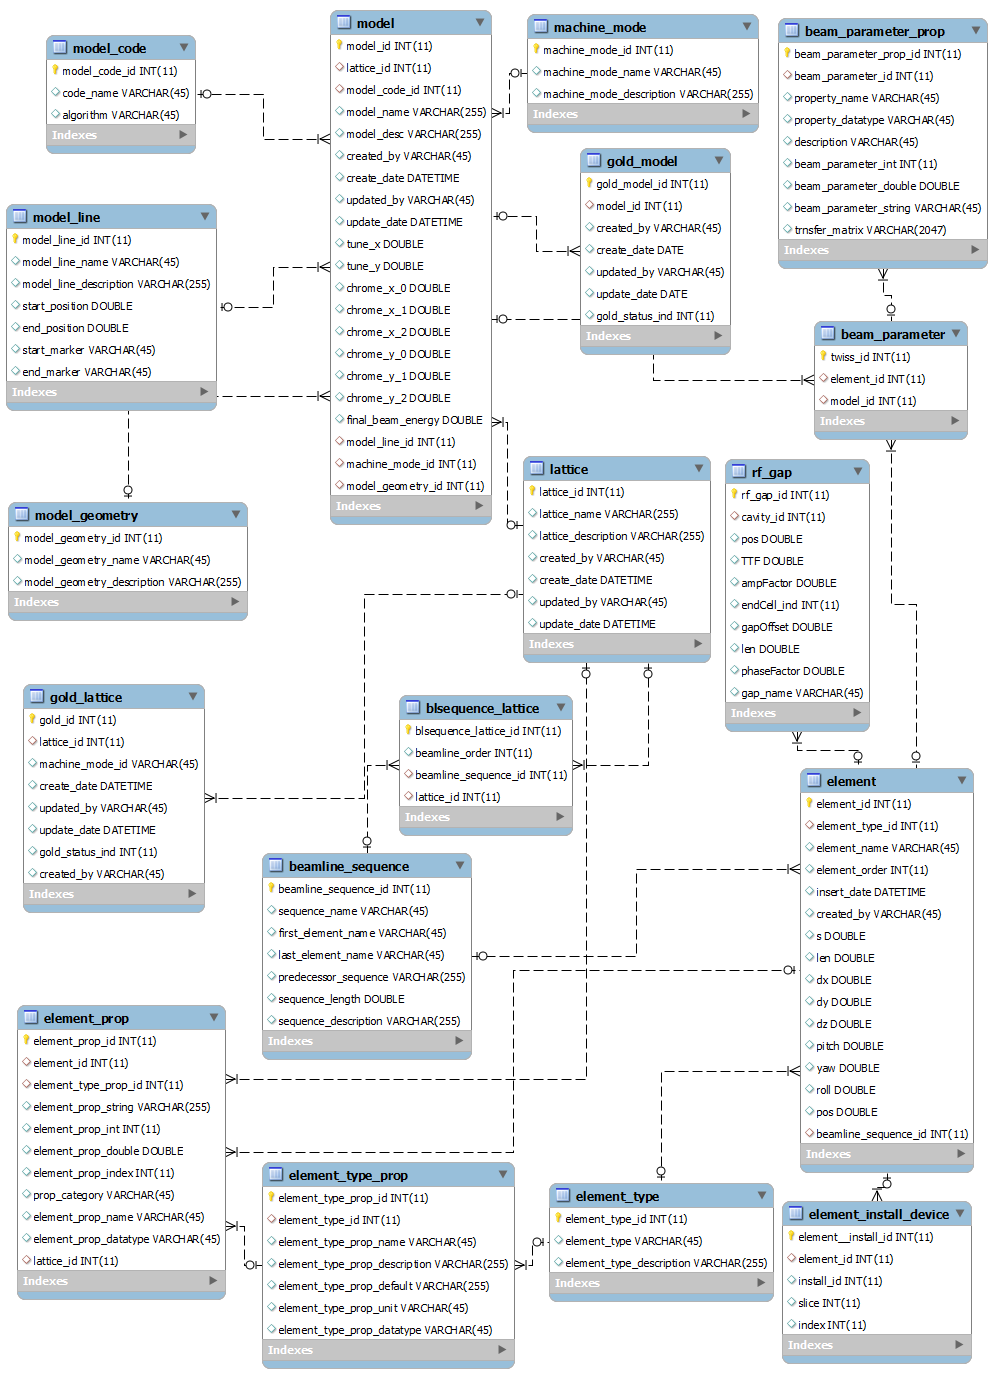
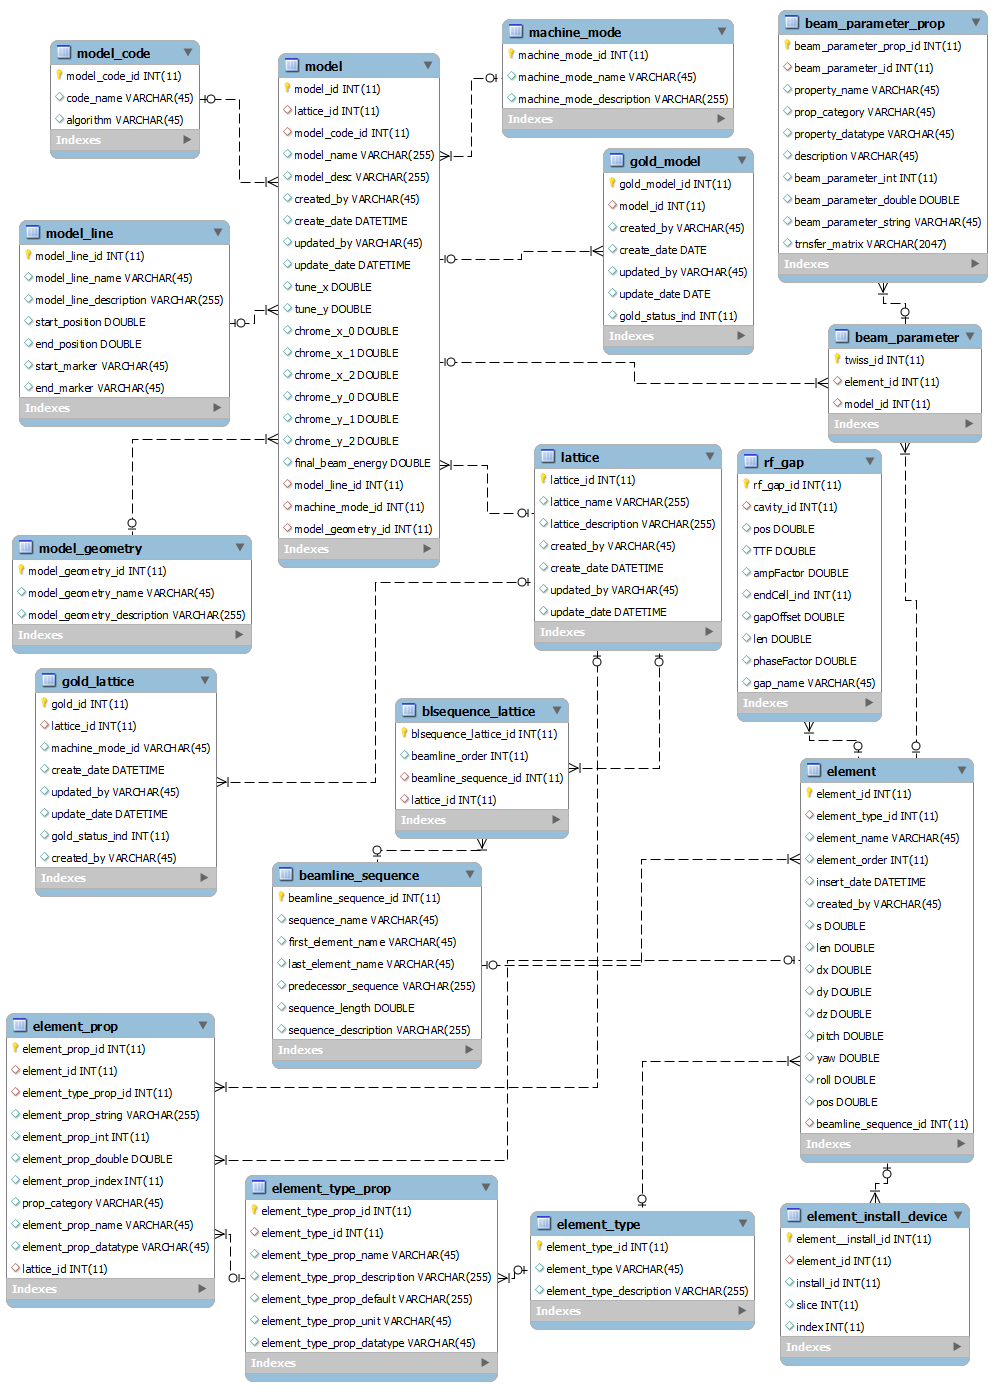
minor update for v.0.7.5 schema

diff --git a/modelDB/src/org/openepics/model/entity/BeamParameterProp.java b/modelDB/src/org/openepics/model/entity/BeamParameterProp.java
@@ -11,8 +11,6 @@ import javax.persistence.Entity;
 import javax.persistence.GeneratedValue;
 import javax.persistence.GenerationType;
 import javax.persistence.Id;
-import javax.persistence.JoinColumn;
-import javax.persistence.ManyToOne;
 import javax.persistence.NamedQueries;
 import javax.persistence.NamedQuery;
 import javax.persistence.Table;
@@ -21,7 +19,7 @@ import javax.xml.bind.annotation.XmlRootElement;
 
 /**
  *
- * @author paul
+ * @author chu
  */
 @Entity
 @Table(name = "beam_parameter_prop")
@@ -30,6 +28,7 @@ import javax.xml.bind.annotation.XmlRootElement;
     @NamedQuery(name = "BeamParameterProp.findAll", query = "SELECT b FROM BeamParameterProp b"),
     @NamedQuery(name = "BeamParameterProp.findByBeamParameterPropId", query = "SELECT b FROM BeamParameterProp b WHERE b.beamParameterPropId = :beamParameterPropId"),
     @NamedQuery(name = "BeamParameterProp.findByPropertyName", query = "SELECT b FROM BeamParameterProp b WHERE b.propertyName = :propertyName"),
+    @NamedQuery(name = "BeamParameterProp.findByPropCategory", query = "SELECT b FROM BeamParameterProp b WHERE b.propCategory = :propCategory"),
     @NamedQuery(name = "BeamParameterProp.findByPropertyDatatype", query = "SELECT b FROM BeamParameterProp b WHERE b.propertyDatatype = :propertyDatatype"),
     @NamedQuery(name = "BeamParameterProp.findByDescription", query = "SELECT b FROM BeamParameterProp b WHERE b.description = :description"),
     @NamedQuery(name = "BeamParameterProp.findByBeamParameterInt", query = "SELECT b FROM BeamParameterProp b WHERE b.beamParameterInt = :beamParameterInt"),
@@ -47,6 +46,9 @@ public class BeamParameterProp implements Serializable {
     @Column(name = "property_name")
     private String propertyName;
     @Size(max = 45)
+    @Column(name = "prop_category")
+    private String propCategory;
+    @Size(max = 45)
     @Column(name = "property_datatype")
     private String propertyDatatype;
     @Size(max = 45)
@@ -63,9 +65,6 @@ public class BeamParameterProp implements Serializable {
     @Size(max = 2047)
     @Column(name = "trnsfer_matrix")
     private String trnsferMatrix;
-    @JoinColumn(name = "beam_parameter_id", referencedColumnName = "twiss_id")
-    @ManyToOne
-    private BeamParameter beamParameterId;
 
     public BeamParameterProp() {
     }
@@ -88,6 +87,14 @@ public class BeamParameterProp implements Serializable {
 
     public void setPropertyName(String propertyName) {
         this.propertyName = propertyName;
+    }
+
+    public String getPropCategory() {
+        return propCategory;
+    }
+
+    public void setPropCategory(String propCategory) {
+        this.propCategory = propCategory;
     }
 
     public String getPropertyDatatype() {
@@ -136,14 +143,6 @@ public class BeamParameterProp implements Serializable {
 
     public void setTrnsferMatrix(String trnsferMatrix) {
         this.trnsferMatrix = trnsferMatrix;
-    }
-
-    public BeamParameter getBeamParameterId() {
-        return beamParameterId;
-    }
-
-    public void setBeamParameterId(BeamParameter beamParameterId) {
-        this.beamParameterId = beamParameterId;
     }
 
     @Override
